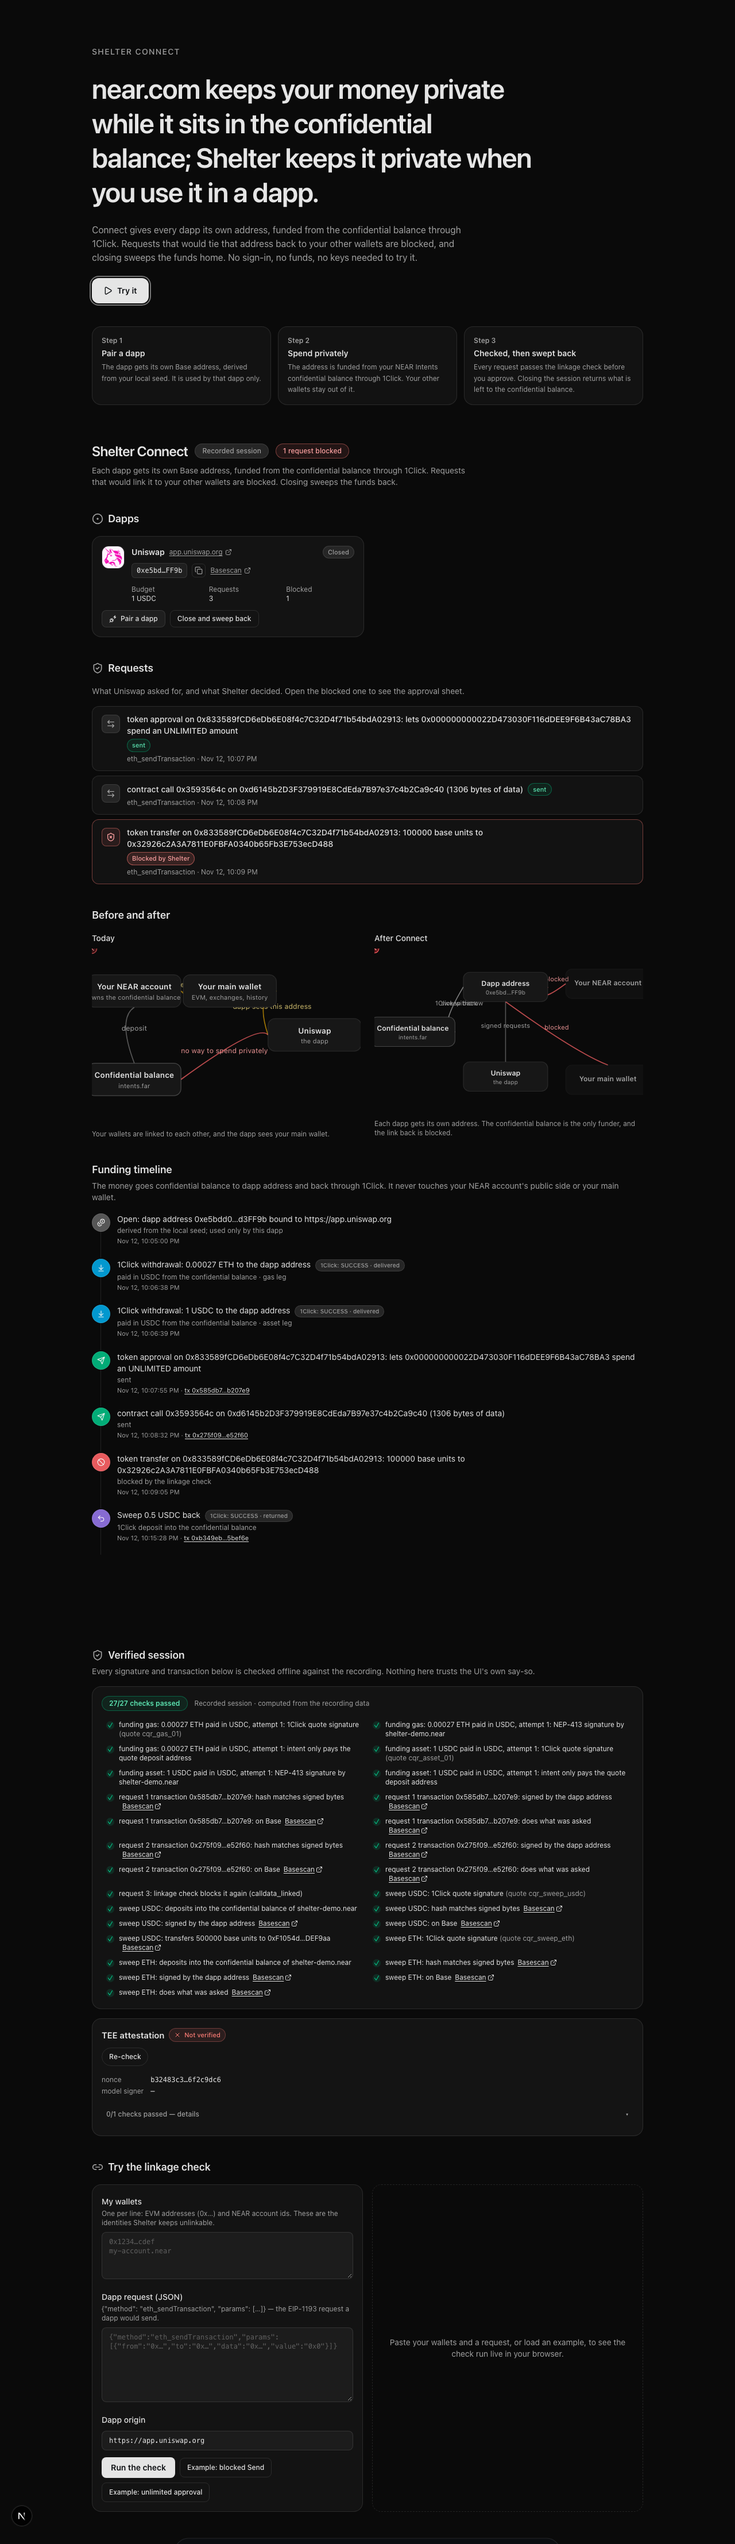
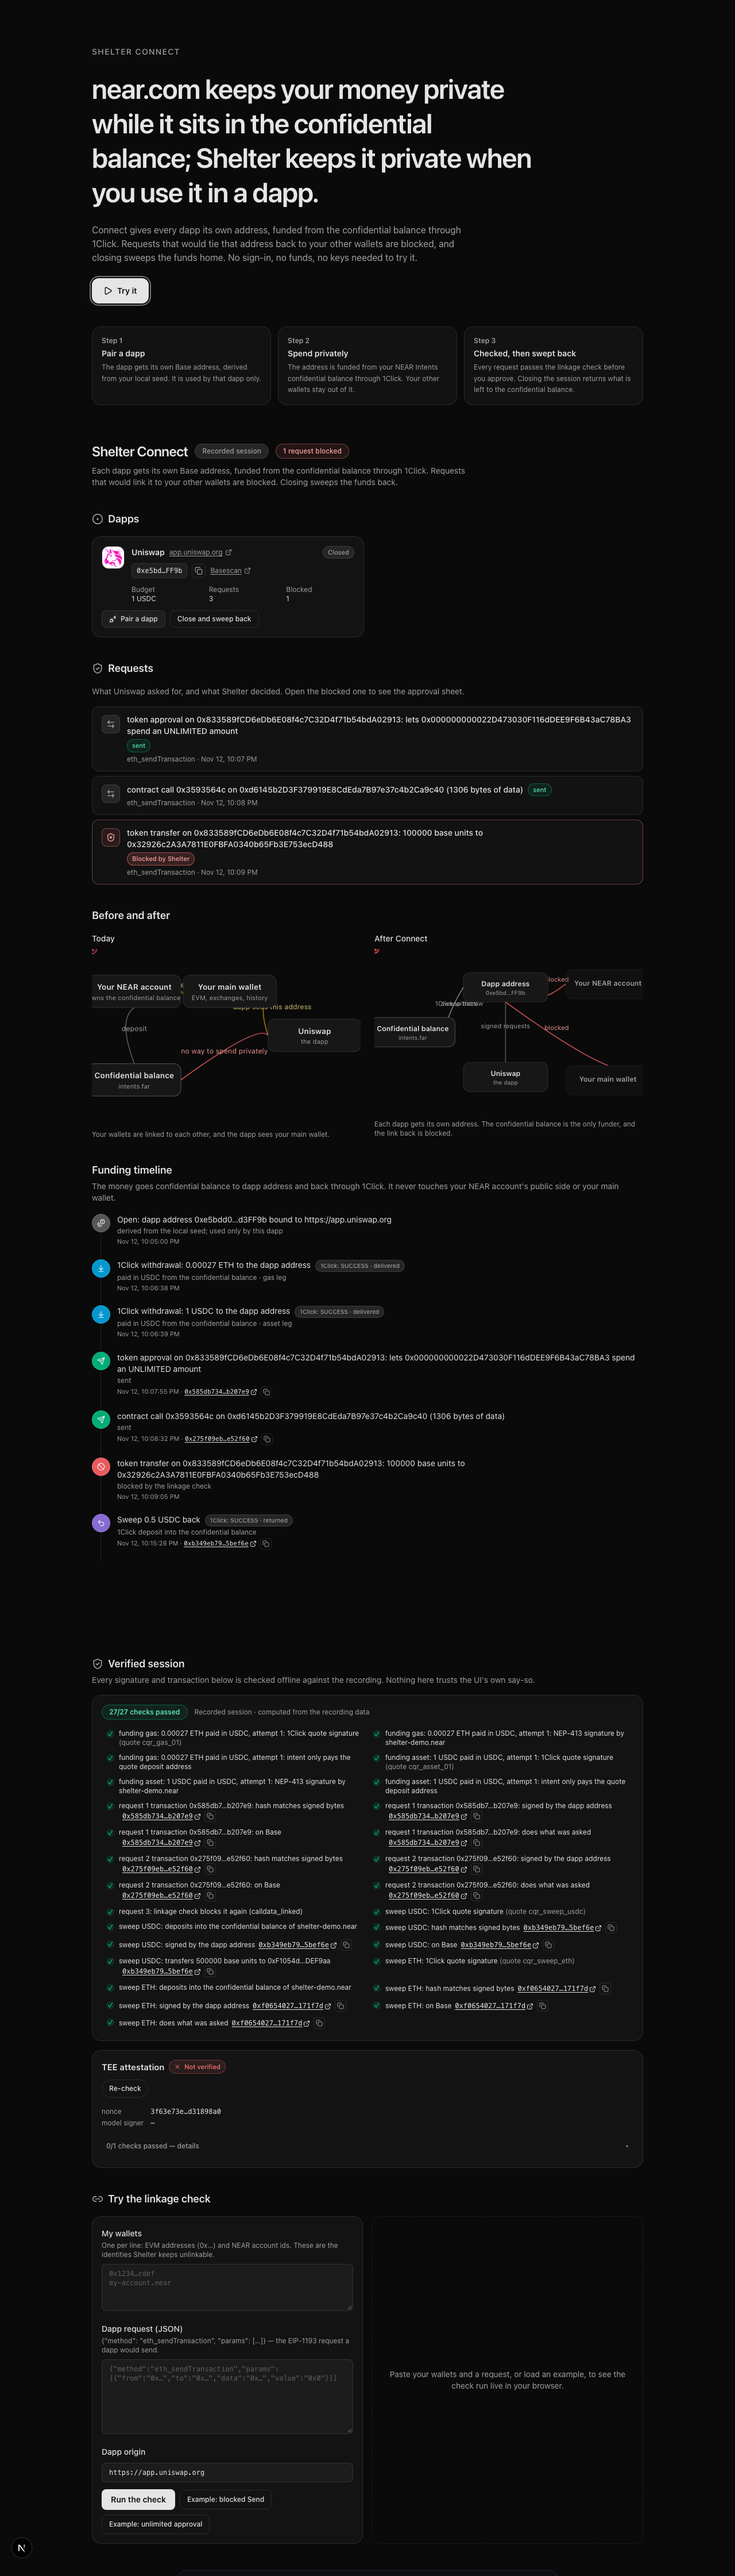
feat(web): copyable hashes on every tx link, refreshed screenshots
Every transaction hash and the dapp address now render shortened with a
copy button and its Basescan link via a shared CopyableHash control, per
the usability bar. Re-shot all screens; axe still reports zero violations
at 1280x800 and 375x812.

diff --git a/apps/web/components/connect/request-sheet.tsx b/apps/web/components/connect/request-sheet.tsx
@@ -7,11 +7,12 @@
  */
 
 import { useMemo } from "react";
-import { AlertTriangle, CheckCircle2, ExternalLink, ShieldX } from "lucide-react";
+import { AlertTriangle, CheckCircle2, ShieldX } from "lucide-react";
+import { CopyableHash } from "./copyable-hash";
 import { parseRequest, type Finding, type RequestRecord } from "@shelter/connect";
 import { BottomSheet } from "@/components/motion/bottom-sheet";
 import { decodeDappRequest } from "@/lib/request-decode";
-import { BASESCAN_TX, formatToken, shortenAddresses } from "@/lib/connect-format";
+import { BASESCAN_ADDRESS, BASESCAN_TX, formatToken, shortenAddresses } from "@/lib/connect-format";
 import { cn } from "@/lib/utils";
 import type { ConnectAccountView } from "@/lib/connect-source";
 
@@ -131,15 +132,14 @@ export function RequestSheet({ view, request, open, onOpenChange }: RequestSheet
             <CheckCircle2 className="h-4 w-4" aria-hidden />
             {decision.text}
             {request.tx ? (
-              <a
-                href={BASESCAN_TX(request.tx.hash)}
-                target="_blank"
-                rel="noreferrer"
-                className="ml-auto inline-flex items-center gap-1 font-mono text-xs text-emerald-300 underline underline-offset-2"
-              >
-                {request.tx.hash.slice(0, 10)}…{request.tx.hash.slice(-6)}
-                <ExternalLink className="h-3 w-3" aria-hidden />
-              </a>
+              <span className="ml-auto inline-flex items-center gap-2 font-mono text-xs text-emerald-300">
+                <CopyableHash
+                  value={request.tx.hash}
+                  href={BASESCAN_TX(request.tx.hash)}
+                  label="Copy transaction hash"
+                  className="text-emerald-300"
+                />
+              </span>
             ) : null}
           </div>
         ) : null}
@@ -201,16 +201,17 @@ export function RequestSheet({ view, request, open, onOpenChange }: RequestSheet
         {request.tx ? (
           <p className="text-xs text-muted-foreground">
             Signed by the dapp address{" "}
-            <code className="font-mono">{account.address.address.slice(0, 6)}…{account.address.address.slice(-4)}</code>{" "}
+            <CopyableHash
+              value={account.address.address}
+              href={BASESCAN_ADDRESS(account.address.address)}
+              label="Copy dapp address"
+            />{" "}
             and mined on Base.{" "}
-            <a
+            <CopyableHash
+              value={request.tx.hash}
               href={BASESCAN_TX(request.tx.hash)}
-              target="_blank"
-              rel="noreferrer"
-              className="inline-flex items-center gap-1 text-foreground underline underline-offset-2"
-            >
-              View on Basescan <ExternalLink className="h-3 w-3" aria-hidden />
-            </a>
+              label="Copy transaction hash"
+            />
           </p>
         ) : null}
 

diff --git a/apps/web/components/connect/funding-timeline.tsx b/apps/web/components/connect/funding-timeline.tsx
@@ -11,6 +11,7 @@ import { motion, useReducedMotion } from "motion/react";
 import { ArrowDownToLine, Ban, Coins, Send, Undo2 } from "lucide-react";
 import type { ConnectAccountView } from "@/lib/connect-source";
 import { BURNER_ASSETS } from "@shelter/burner";
+import { CopyableHash } from "./copyable-hash";
 import { BASESCAN_TX, formatToken, shortHash } from "@/lib/connect-format";
 import { cn } from "@/lib/utils";
 
@@ -23,8 +24,8 @@ interface TimelineEvent {
   detail?: string;
   status?: string;
   outcome?: string;
-  link?: string;
-  linkLabel?: string;
+  /** Raw tx hash; rendered shortened with copy + Basescan link. */
+  hash?: string;
 }
 
 const TONE_ICON = {
@@ -85,8 +86,7 @@ function buildEvents(view: ConnectAccountView): TimelineEvent[] {
       tone: r.decision === "blocked" ? "blocked" : "use",
       title: r.summary,
       detail: r.decision === "blocked" ? "blocked by the linkage check" : r.decision,
-      link: r.tx?.hash ? BASESCAN_TX(r.tx.hash) : undefined,
-      linkLabel: r.tx ? shortHash(r.tx.hash) : undefined,
+      hash: r.tx?.hash,
     });
   }
 
@@ -98,8 +98,7 @@ function buildEvents(view: ConnectAccountView): TimelineEvent[] {
       detail: item.decision === "deposit" ? "1Click deposit into the confidential balance" : item.note,
       status: item.status,
       outcome: item.outcome,
-      link: item.tx ? BASESCAN_TX(item.tx.hash) : undefined,
-      linkLabel: item.tx ? shortHash(item.tx.hash) : undefined,
+      hash: item.tx?.hash,
     });
   }
 
@@ -171,17 +170,14 @@ export function FundingTimeline({ view }: { view: ConnectAccountView }) {
                     minute: "2-digit",
                     second: "2-digit",
                   })}
-                  {e.link ? (
+                  {e.hash ? (
                     <>
                       {" · "}
-                      <a
-                        href={e.link}
-                        target="_blank"
-                        rel="noreferrer"
-                        className="text-foreground underline underline-offset-2"
-                      >
-                        tx {e.linkLabel ?? shortHash(e.link)}
-                      </a>
+                      <CopyableHash
+                        value={e.hash}
+                        href={BASESCAN_TX(e.hash)}
+                        label="Copy transaction hash"
+                      />
                     </>
                   ) : null}
                 </p>

diff --git a/apps/web/components/connect/copyable-hash.tsx b/apps/web/components/connect/copyable-hash.tsx
@@ -1,0 +1,74 @@
+"use client";
+
+import { useState } from "react";
+import { Check, Copy, ExternalLink } from "lucide-react";
+import { cn } from "@/lib/utils";
+
+/**
+ * A shortened hash/address with a copy button and an explorer link — the
+ * spec for every machine identifier on the Connect screens.
+ */
+export function CopyableHash({
+  value,
+  href,
+  label,
+  className,
+}: {
+  value: string;
+  href?: string;
+  /** Accessible name, e.g. "Copy transaction hash". */
+  label: string;
+  className?: string;
+}) {
+  const [copied, setCopied] = useState(false);
+  const short = value.length > 14 ? `${value.slice(0, 10)}…${value.slice(-6)}` : value;
+  return (
+    <span className={cn("inline-flex items-center gap-1.5", className)}>
+      {href ? (
+        <a
+          href={href}
+          target="_blank"
+          rel="noreferrer"
+          className="font-mono text-foreground underline underline-offset-2"
+          aria-label={`Open ${short} on Basescan`}
+        >
+          {short}
+          <ExternalLink className="ml-0.5 inline h-3 w-3" aria-hidden />
+        </a>
+      ) : (
+        <code className="font-mono text-foreground">{short}</code>
+      )}
+      <button
+        type="button"
+        aria-label={label}
+        onClick={async () => {
+          try {
+            await navigator.clipboard.writeText(value);
+          } catch {
+            const ta = document.createElement("textarea");
+            ta.value = value;
+            ta.style.position = "fixed";
+            ta.style.opacity = "0";
+            document.body.appendChild(ta);
+            ta.select();
+            document.execCommand("copy");
+            ta.remove();
+          }
+          setCopied(true);
+          setTimeout(() => setCopied(false), 1500);
+        }}
+        className={cn(
+          "inline-flex h-5 w-5 items-center justify-center rounded border border-border text-muted-foreground",
+          "transition-colors hover:border-border-strong hover:text-foreground",
+          "focus-visible:outline-2 focus-visible:outline-offset-2 focus-visible:outline-ring",
+        )}
+      >
+        {copied ? (
+          <Check className="h-3 w-3 text-emerald-400" aria-hidden />
+        ) : (
+          <Copy className="h-3 w-3" aria-hidden />
+        )}
+      </button>
+    </span>
+  );
+}

diff --git a/apps/web/components/connect/connect-demo.tsx b/apps/web/components/connect/connect-demo.tsx
@@ -17,6 +17,7 @@ import {
   type ConnectSource,
 } from "@/lib/connect-source";
 import { DappCard } from "./dapp-card";
+import { CopyableHash } from "./copyable-hash";
 import { BASESCAN_TX, formatToken } from "@/lib/connect-format";
 import { RequestRow } from "./request-row";
 import { RequestSheet } from "./request-sheet";
@@ -159,14 +160,11 @@ function CloseSheet({
                   </span>
                   <span>{item.decision === "deposit" ? "deposited to the confidential balance" : item.note}</span>
                   {item.tx ? (
-                    <a
+                    <CopyableHash
+                      value={item.tx.hash}
                       href={BASESCAN_TX(item.tx.hash)}
-                      target="_blank"
-                      rel="noreferrer"
-                      className="font-mono text-foreground underline underline-offset-2"
-                    >
-                      tx {item.tx.hash.slice(0, 10)}…{item.tx.hash.slice(-6)}
-                    </a>
+                      label="Copy transaction hash"
+                    />
                   ) : null}
                 </li>
               );

diff --git a/apps/web/components/connect/connect-verified.tsx b/apps/web/components/connect/connect-verified.tsx
@@ -15,6 +15,8 @@ import type { ConnectAccountView } from "@/lib/connect-source";
 import { verifySession, type VerifyCheck } from "@/lib/connect-verify";
 import { VerifiedPanel } from "@/components/verified-panel";
 import { cn } from "@/lib/utils";
+import { BASESCAN_TX } from "@/lib/connect-format";
+import { CopyableHash } from "./copyable-hash";
 
 function CheckRow({ check }: { check: VerifyCheck }) {
   return (
@@ -33,7 +35,14 @@ function CheckRow({ check }: { check: VerifyCheck }) {
       <span className="min-w-0 flex-1">
         <span className="text-foreground">{check.label}</span>
         {check.detail ? <span className="text-muted-foreground"> ({check.detail})</span> : null}
-        {check.link ? (
+        {check.hash ? (
+          <CopyableHash
+            value={check.hash}
+            href={check.link ?? BASESCAN_TX(check.hash)}
+            label="Copy transaction hash"
+            className="ml-1.5"
+          />
+        ) : check.link ? (
           <a
             href={check.link}
             target="_blank"

diff --git a/apps/web/lib/connect-verify.ts b/apps/web/lib/connect-verify.ts
@@ -53,6 +53,8 @@ export interface VerifyCheck {
   detail?: string;
   /** Basescan transaction link when the check is about a mined transaction. */
   link?: string;
+  /** Raw tx hash for the copyable-hash control. */
+  hash?: string;
 }
 
 const check = (id: string, label: string, pass: boolean, extra?: Partial<VerifyCheck>): VerifyCheck => ({
@@ -151,7 +153,7 @@ async function txChecks(
   expect: { to?: string; value?: bigint; data?: string; erc20?: { token: `0x${string}`; to: string; amount: bigint } },
 ): Promise<VerifyCheck[]> {
   const out: VerifyCheck[] = [];
-  const link = { link: BASESCAN_TX(tx.hash) };
+  const link = { link: BASESCAN_TX(tx.hash), hash: tx.hash };
   out.push(check(`${id}-hash`, `${label}: hash matches signed bytes`, keccak256(tx.raw) === tx.hash, link));
   let sender: string | undefined;
   try {
